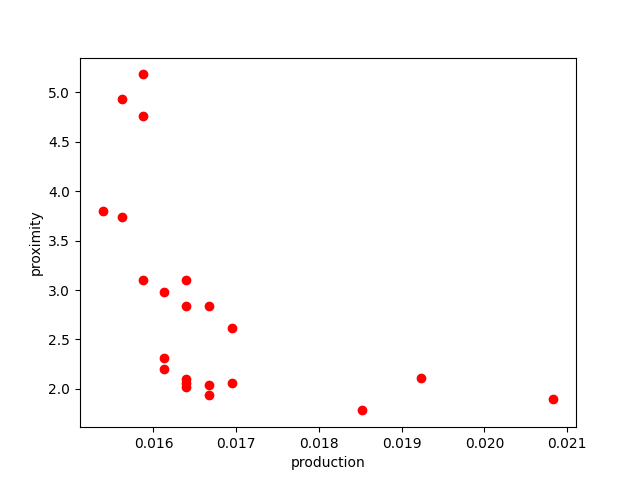
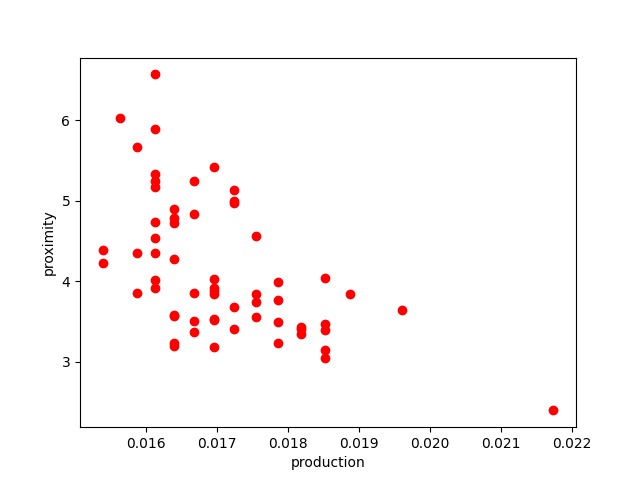
changement d'échelle pour le graph et changement de la compacité pour qu'lle soit linéaire et pas quadratique

diff --git a/main.py b/main.py
@@ -17,7 +17,7 @@ USAGE_MAP_PATH = "Usage_map.txt"
 MAP_COST_RATIO = 10000
 BUDGET = 500000
 
-
+random.seed(42)
 
 # TEST MAP PARAMETERS
 TEST_MAP_PATH = "20x20_"
@@ -175,7 +175,7 @@ def plot_pareto(population):
                picker=True, pickradius=0.1)
     # ax.legend()
     ax.set_xlabel("Compacité")
-    ax.set_xlim(min(liste_compacite), 1000)
+    ax.set_xlim(min(liste_compacite), max(liste_compacite))
     ax.set_ylabel("Proximité")
     ax.set_ylim(min(liste_proximite), max(liste_proximite))
     ax.set_zlabel("Production")
@@ -246,7 +246,7 @@ def compacite(solution):
     milieuX = sum(plot[0] for plot in solution) / len(solution)
     milieuY = sum(plot[1] for plot in solution) / len(solution)
     # Critère à être minimiser
-    return sum((plot[0] - milieuX) ** 2 + (plot[1] - milieuY) ** 2 for plot in solution)
+    return sum(((plot[0] - milieuX) ** 2 + (plot[1] - milieuY) ** 2)**(1/2) for plot in solution)
 
 
 def proximite(solution):
@@ -649,7 +649,7 @@ if __name__ == "__main__":
     """2: INITIAL POPULATION """
 
     # Generate initial population randomly ⇾ cover as much as possible the solution space
-    population_amelioree = genetic_algorithm(500, 300)
+    population_amelioree = genetic_algorithm(500, 400)
     print(population_amelioree[0])
     # Determine the dominant solutions
     # Plot the frontier and generate csv files
